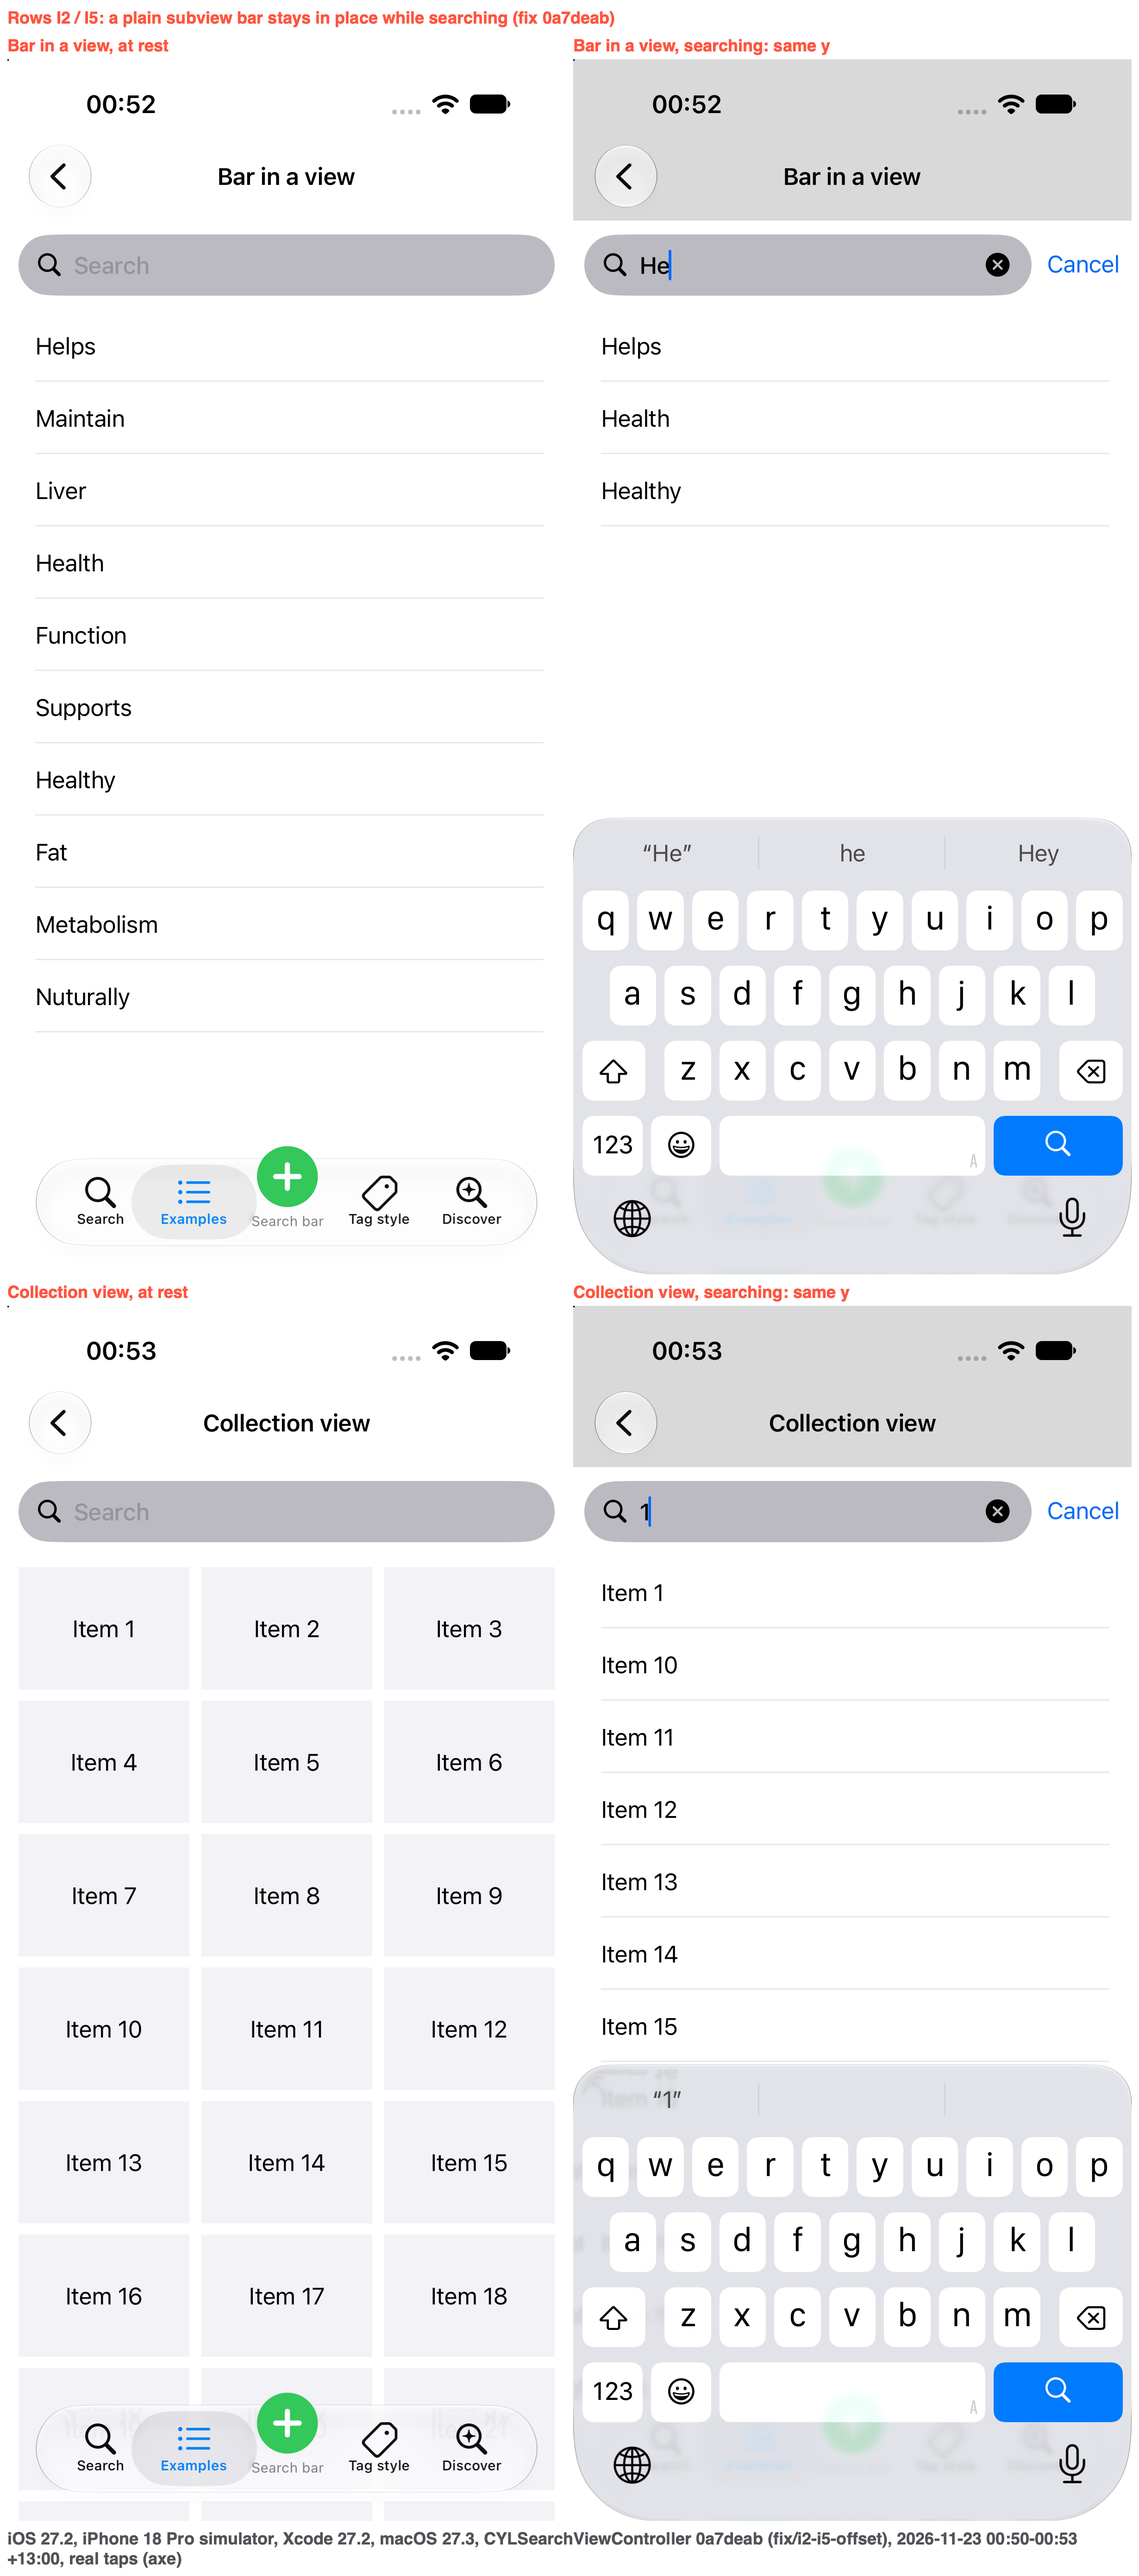
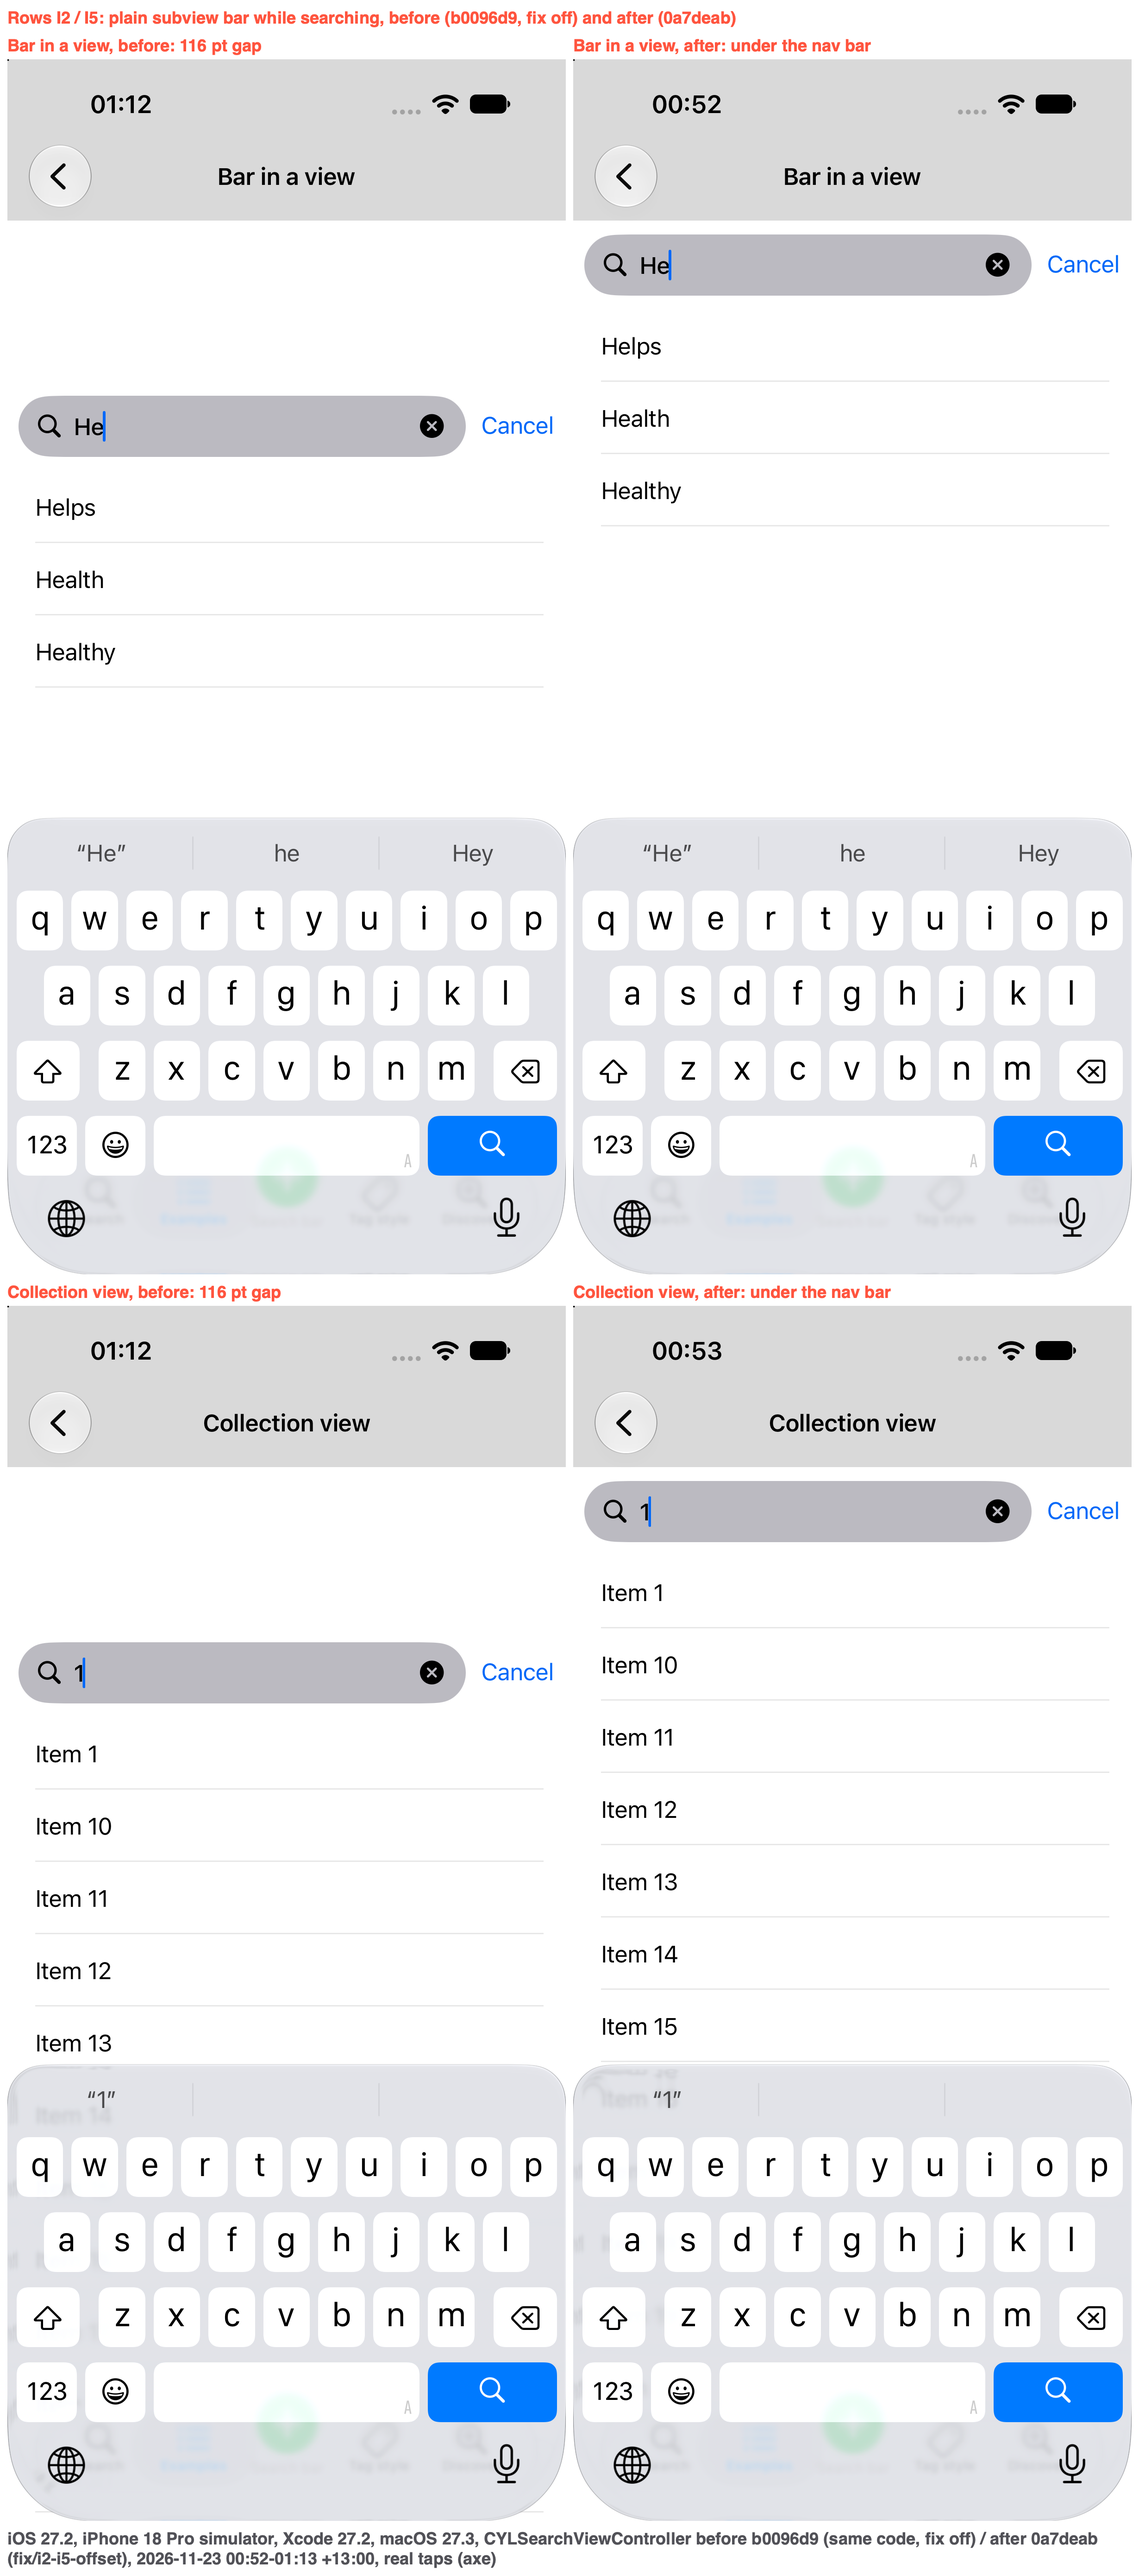
test(search): 💍 I2 / I5 leave the search without a slide; before / after screenshot
The I2 and I5 tests sample the bar while leaving the search too
(#1313 is a jitter after Cancel): at most 1 pt. The screenshot is now
before (b0096d9 code with the fix off) and after (0a7deab), real taps
on both screens. 188 tests, 0 failures on iOS 27.2, 26.5 and 17.5.

By  @ChenYilong <luohanchenyilong@163.com>

diff --git a/CYLSearchExampleTests/CYLSearchIssueScenarioTests.swift b/CYLSearchExampleTests/CYLSearchIssueScenarioTests.swift
@@ -115,7 +115,14 @@ final class CYLSearchIssueScenarioTests: CYLSearchExampleTestCase {
         // with Auto Layout constraints to the screen's view: UIKit moves the bar into its own container and drops them.
         XCTAssertEqual(active.width, window.bounds.width, accuracy: 0.5, "the bar keeps its width while searching")
         XCTAssertLessThanOrEqual(active.maxY, window.bounds.maxY)
-        search.setActive(false, animated: false)
+        // Leaving the search starts from the corrected place: no slide on the way back either.
+        var leaving: [CGRect] = []
+        let leaveSampler = CYLFrameSampler { leaving.append(self.drawnFrame(of: bar, in: window)) }
+        search.setActive(false, animated: true)
+        runLoop(1.0)
+        leaveSampler.stop()
+        let worstLeaving = leaving.map { abs($0.minY - start.minY) }.max() ?? 0
+        XCTAssertLessThanOrEqual(worstLeaving, 1, "the bar moved \(worstLeaving) pt while leaving")
         window.isHidden = true
     }
 
@@ -394,9 +401,15 @@ final class CYLSearchIssueScenarioTests: CYLSearchExampleTestCase {
             XCTAssertEqual(drawnFrame(of: bar, in: window).minY, before.minY, accuracy: 1, "round \(round): searching")
             search.searchBar.text = "1"
             runLoop(0.3)
+            var leaving: [CGRect] = []
+            let sampler = CYLFrameSampler { leaving.append(self.drawnFrame(of: bar, in: window)) }
             search.setActive(false, animated: true)
             runLoop(1.0)
             runLoop(0.1)
+            sampler.stop()
+            // #1313 is a jitter after Cancel: no frame of the way back leaves the rest position.
+            let worst = leaving.map { abs($0.minY - before.minY) }.max() ?? 0
+            XCTAssertLessThanOrEqual(worst, 1, "round \(round): the bar moved \(worst) pt after Cancel")
             let after = bar.convert(bar.bounds, to: window)
             XCTAssertEqual(after.minX, before.minX, accuracy: 0.5, "round \(round)")
             XCTAssertEqual(after.minY, before.minY, accuracy: 0.5, "round \(round)")

diff --git a/docs/qmui-search-controller.md b/docs/qmui-search-controller.md
@@ -424,9 +424,9 @@ Updated 2026-11-22 (`fix/ios-todos-qmui`, task "continue the iOS TODOs in docs/"
    results now start at the bar's bottom edge. Tests: `testI2PlainSubviewBarStaysInTheSafeArea` (worst offset over the
    animation at most 1 pt, results top = bar bottom; it pinned the 116 pt before), `testI5BarInContainerReturnsToItsFrameAfterCancel`
    (frame while searching), new `testI2PlainBarInAnExtendedViewStaysInPlace` (view under the navigation bar, UIKit's
-   default). All three read 116 pt without the fix; 188 tests, 0 failures on iOS 27.2 (clean derived data). Real taps
-   (axe) on both screens:
-   ![I2 / I5 after the fix](assets/qmui-search-i2-i5-offset-fix-ios27.2-20261123.png) iOS 27.2, iPhone 18 Pro simulator, Xcode 27.2, macOS 27.3, CYLSearchViewController 0a7deab, 2026-11-23 00:50 to 00:53 +13:00: Bar in a view and Collection view, at rest and searching, the bar at the same y (before: the issue screens image above, bar 116 pt lower).
+   default). All three read 116 pt without the fix; 188 tests, 0 failures on iOS 27.2, 26.5 and 17.5 (clean derived data; the I2 / I5 tests also sample leaving the search: at most 1 pt). Real taps
+   (axe) on both screens, before and after:
+   ![I2 / I5 before and after the fix](assets/qmui-search-i2-i5-offset-fix-ios27.2-20261123.png) iOS 27.2, iPhone 18 Pro simulator, Xcode 27.2, macOS 27.3, CYLSearchViewController before `b0096d9` (fix off) and after `0a7deab`, 2026-11-23 00:52 to 01:13 +13:00: Bar in a view and Collection view searching; before, the bar sits 116 pt low under a blank gap; after, it stays under the navigation bar.
 3. **Row I3: the black band. DONE (`bfbee55`).** Cause: the default style hides the bar background
    (`hidesBarBackground`); while searching UIKit hides the navigation bar and has only black behind the bar (an explicit
    `barTintColor` filled the band, a red window background did not show, so it is not the window). Fix in the core: a

diff --git a/docs/task-log.md b/docs/task-log.md
@@ -1143,5 +1143,6 @@ begins and becomes `DONE` when it ends.
   2. I2 / I5 fixed in the core (`0a7deab`): UIKit placed the bar's container at the bar's window y inside a presentation
      that starts at the contents view (bar at 232 instead of 116); `CYLSearchController` keeps the rest frame and the
      system controller moves the container back by the measured difference before the results read `searchBarMaxY`.
-     Three tests check the absolute position (all read 116 pt without the fix); 188 tests, 0 failures on iOS 27.2 (clean
-     derived data); real taps on both screens, labelled screenshot `qmui-search-i2-i5-offset-fix-ios27.2-20261123.png`.
+     Three tests check the absolute position while entering and leaving the search (all read 116 pt without the fix); 188
+     tests, 0 failures on iOS 27.2, 26.5 and 17.5 (clean derived data); real taps on both screens, labelled before / after
+     screenshot `qmui-search-i2-i5-offset-fix-ios27.2-20261123.png`.
